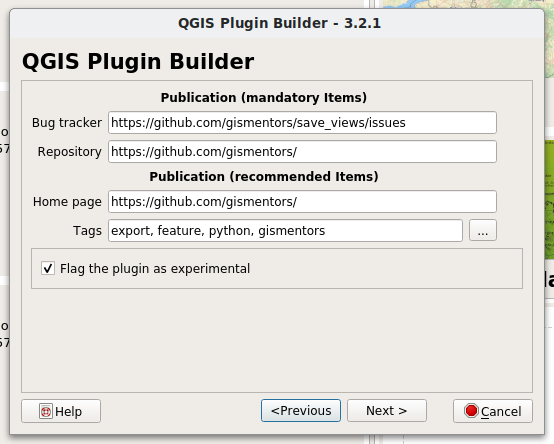
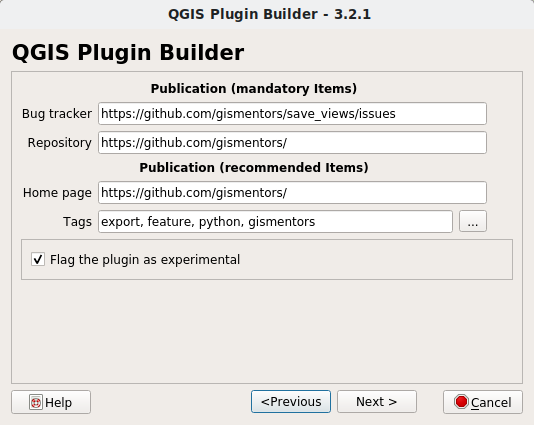
fix typos/ images

Changed region(s): [[0.0, 0.0, 1.0, 1.0], [0.8689, 0.4282, 0.8989, 0.4588]]

diff --git a/start_plugin.rst b/start_plugin.rst
@@ -5,7 +5,7 @@ Start QGIS Plugin
 Start the ``Plugin Builder`` plugin and fill necessary inputs. In the first step,
 we are going to fill the names for Python classes and module names.
 
-.. figure:: images/plugin_builder1.png
+.. figure:: images/plugin_builder0.png
 
         Initialization of new QGIS Plugin
 
@@ -13,27 +13,32 @@ we are going to fill the names for Python classes and module names.
           
 In the next screen, fill longer description of the plugin.
 
-.. figure:: images/plugin_builder2.png
+.. figure:: images/plugin_builder1.png
 
-        Filling longer description text
+   Filling longer description text
 
 In the next screen, set visual appearance of the plugin. We will use 
 `Tool button with dock widget`.
 
+.. figure:: images/plugin_builder2.png
+
+   Choosing visual representation of new plugin
+   
 There ware three possibilities of the dialog:
 
 * Tool button with dialog
 * Tool button with dockwidget
 * Processing provider (see `QGIS Advanced course <http://training.gismentors.eu/qgis-pokrocily/geoprocessing/index.html>`_)
 
+In the next step, we shell check all the metafiles, the builder will
+generate for us. We shall leave all checked.
+
 .. figure:: images/plugin_builder3.png
 
-        Choosing visual representation of new plugin
+   Helper scripts to be generated.
 
-On the next step, we shell check all the metafiles, the builder will generate
-for us. We shall leave all checked.
-
-.. figure:: images/plugin_builder4.png
+..
+  .. figure:: images/plugin_builder4.png
 
         Picking required metafiles
 
@@ -51,13 +56,13 @@ location in your computer.
 
         Filling required URLs
 
-.. note:: On Microsoft Winows at this point, you may see error message about
-        ``pyrcc5`` script not being available in your system and therefore it
-        could not be compiled. Do not panic, we will compile the plugin manually later with
-        environemnt set up.
+.. note:: On Microsoft Windows at this point, you may see error message about
+   :program:`pyrcc5` script not being available in your system and therefore it
+   could not be compiled. Do not panic, we will compile the plugin manually later with
+   environment set up.
 
-        .. figure:: images/pyrcc5-error.png
-                :class: medium
+   .. figure:: images/pyrcc5-error.png
+      :class: medium
         
 Final screen shows summary of the new plugin and QGIS environment settings as
 well as the next required steps.
@@ -67,15 +72,17 @@ well as the next required steps.
         Plugin summary
 
 
-Important informations are:
+Important information are:
 
 #. Location of the new created plugin
 #. Default location of all QGIS plugins
 #. *Implementation* file is called :file:`save_views.py`
 #. GUI modification shall happen in Qt Designer using the
    :file:`save_views_dialog_base.ui` file
-#. Next step is to use `pb_tool` for the plugin managemnt
+#. Next step is to use `pb_tool` for the plugin management
 
-There is also inforamtion about places, where QGIS is looking for installed
-plugins. On Linux, this typically is :file:`$HOME/.local/share/QGIS/QGIS3/profiles/default/python/plugins`.
-Windows it may be :file:`%APPDATA%\Roaming\QGIS\QGIS3\profiles\default\python\plugins`.
+There is also information about folders, where QGIS is looking for
+installed plugins. On Linux, this typically is
+:file:`$HOME/.local/share/QGIS/QGIS3/profiles/default/python/plugins`.
+Windows it may be
+:file:`%APPDATA%\\Roaming\\QGIS\\QGIS3\\profiles\\default\\python\\plugins`.
